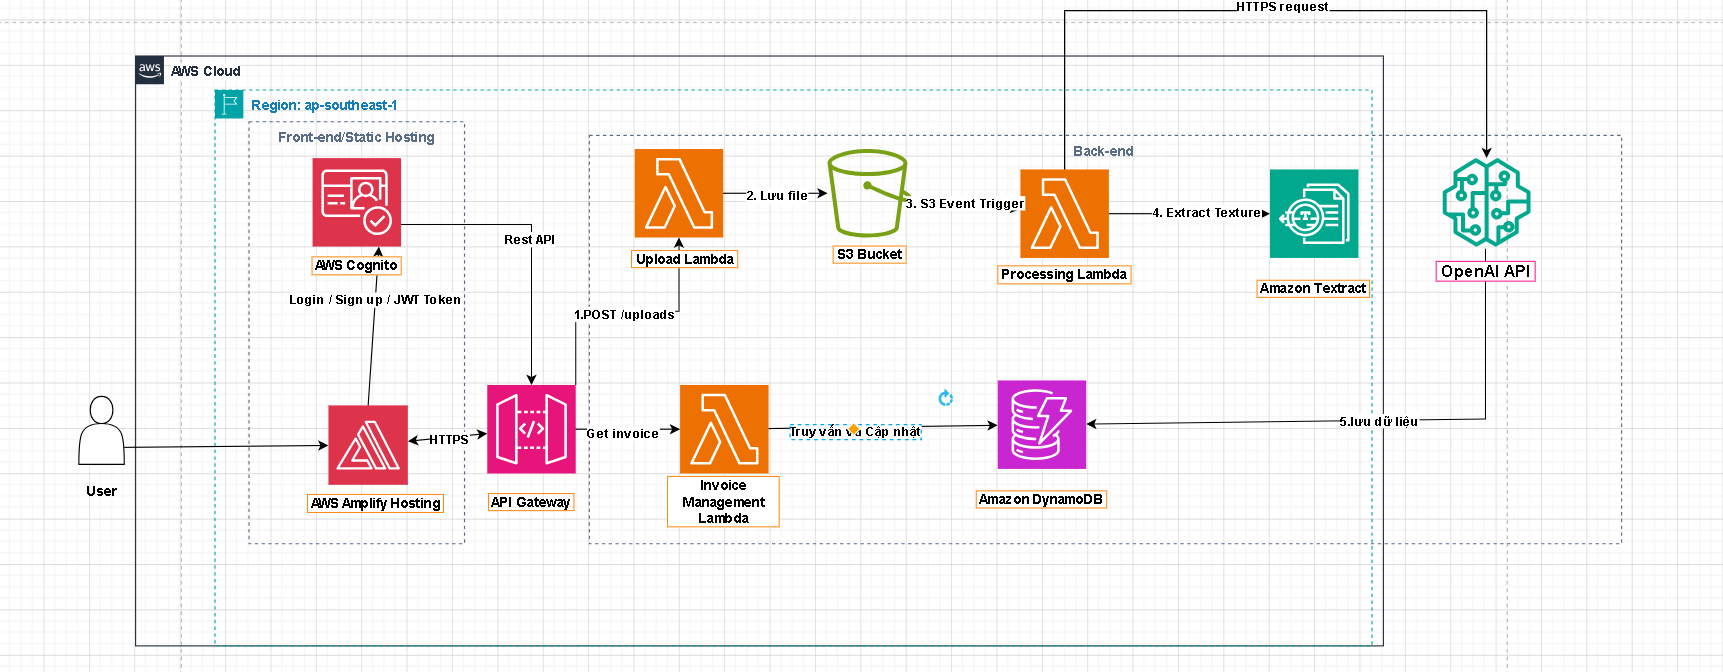
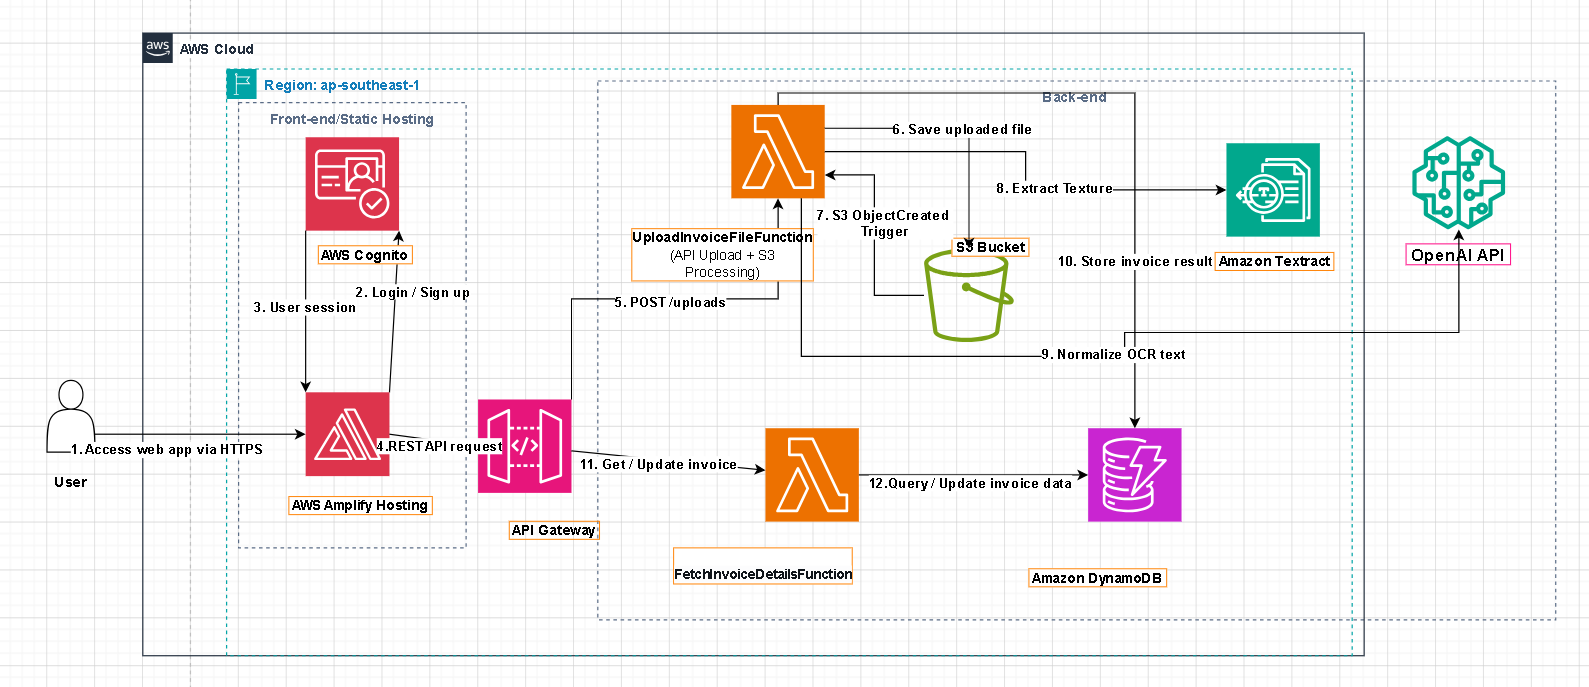
Final update

diff --git a/layouts/partials/menu-footer.html b/layouts/partials/menu-footer.html
@@ -10,17 +10,21 @@
     <br>
     <br>
         <b> Last Updated </b> <br>
-        <i><font color=orange>30-01-2022</font></i>
+        <i><font color=orange>03-07-2026</font></i>
     </left>
     <left>
         <br>
         <br>
             <b> Team </b> <br>
            
-            <i> <a href="https://www.linkedin.com/in/sutrinh/"  style="color:orange">Sử Trịnh  </a> <br>
-                <a href="https://www.linkedin.com/in/jotaguy"  style="color:orange">Gia Hưng </a> <br>
-                <a href="https://www.linkedin.com/in/hiepnguyendt"  style="color:orange">Thanh Hiệp </a>
-               
+            <i>
+                <a href = "https://github.com/nguyenminhtinh31204/Serverless-AI-Invoice-Scanner" style="color:orange">Minh Tình</a> <br>
+                <a style="color:orange">Duy Khang</a> <br>
+                <a style="color:orange">Duy Tân</a> <br>
+                <a style="color:orange">Khánh Thịnh</a> <br>
+                <a style="color:orange">Nguyễn Duy Khang</a> <br>
+                
+
         </i>
         </left>
 <!-- Place this tag in your head or just before your close body tag. -->

diff --git a/content/3-AIpoweredinvoiceprocessing/3.2-createlambdafunction-upload/_index.vi.md b/content/3-AIpoweredinvoiceprocessing/3.2-createlambdafunction-upload/_index.vi.md
@@ -7,7 +7,7 @@ pre: " <b> 3.2 </b> "
 
 #### Tổng quan
 
-Trong bước này, bạn sẽ tạo Lambda Function đầu tiên có tên là **UploadInvoiceFileFunction**. Function này sẽ được kích hoạt khi người dùng tải lên một file hóa đơn vào S3 bucket. Sau đó, nó sẽ sử dụng **Amazon Textract** để trích xuất văn bản, **Amazon Bedrock** để phân tích và hiểu nội dung, cuối cùng lưu thông tin vào **DynamoDB**.
+Trong bước này, bạn sẽ tạo Lambda Function đầu tiên có tên là **UploadInvoiceFileFunction**. Function này sẽ được kích hoạt khi người dùng tải lên một file hóa đơn vào S3 bucket. Sau đó, nó sẽ sử dụng **Amazon Textract** để trích xuất văn bản, **OpenAI API** để phân tích và hiểu nội dung, cuối cùng lưu thông tin vào **DynamoDB**.
 
 ---
 
@@ -18,7 +18,7 @@ Trong bước này, bạn sẽ tạo Lambda Function đầu tiên có tên là *
 ![Open Lambda](/images/3.lambdafunctions/3.2-uploadinvoicelambda/001-openlambda.png)
 
 {{% notice warning %}}
-⚠ **Lưu ý**: Hãy đảm bảo bạn đang ở đúng **Region: N. Virginia (us-east-1)** trước khi tạo Lambda function. Đây là vùng bạn đã tạo S3 bucket, DynamoDB table và đăng ký Amazon Bedrock. Nếu chọn sai vùng, Lambda sẽ không thể truy cập được các dịch vụ khác của hệ thống.
+⚠ **Lưu ý**: Hãy đảm bảo bạn đang ở đúng **Region: Singapore (ap-southeast)** trước khi tạo Lambda function. Đây là vùng bạn đã tạo S3 bucket, DynamoDB table và đăng ký Amazon Bedrock. Nếu chọn sai vùng, Lambda sẽ không thể truy cập được các dịch vụ khác của hệ thống.
 {{% /notice %}}
 
 2. Nhấn **Create function**.

diff --git a/content/3-AIpoweredinvoiceprocessing/3.2-createlambdafunction-upload/_index.md b/content/3-AIpoweredinvoiceprocessing/3.2-createlambdafunction-upload/_index.md
@@ -7,7 +7,7 @@ pre: " <b> 3.2 </b> "
 
 #### Overview
 
-In this step, you will create the first Lambda Function named **UploadInvoiceFileFunction**. This function is triggered when a user uploads an invoice file to the S3 bucket. It then uses **Amazon Textract** to extract text, **Amazon Bedrock** to analyze and understand the content, and finally stores the extracted information into **DynamoDB**.
+In this step, you will create the first Lambda Function named **UploadInvoiceFileFunction**. This function is triggered when a user uploads an invoice file to the S3 bucket. It then uses **Amazon Textract** to extract text, **OpenAI API** to analyze and understand the content, and finally stores the extracted information into **DynamoDB**.
 
 ---
 
@@ -18,7 +18,7 @@ In this step, you will create the first Lambda Function named **UploadInvoiceFil
 ![Open Lambda](/images/3.lambdafunctions/3.2-uploadinvoicelambda/001-openlambda.png)
 
 {{% notice warning %}}
-⚠ **Note**: Make sure you are in the correct **Region: N. Virginia (us-east-1)** before creating the Lambda function. This is the region where you created the S3 bucket, DynamoDB table, and registered Amazon Bedrock. If you choose the wrong region, Lambda won't be able to access the system's other services.
+⚠ **Note**: Make sure you are in the correct **Region: Singapore (ap-southeast-1)** before creating the Lambda function. This is the region where you created the S3 bucket, DynamoDB table. If you choose the wrong region, Lambda won't be able to access the system's other services.
 {{% /notice %}}
 
 2. Click **Create function**.

diff --git a/content/3-AIpoweredinvoiceprocessing/3.3-testlambdafunction-upload/_index.vi.md b/content/3-AIpoweredinvoiceprocessing/3.3-testlambdafunction-upload/_index.vi.md
@@ -7,7 +7,7 @@ pre: " <b> 3.3 </b> "
 
 #### Tổng quan
 
-Trong bước này, bạn sẽ thực hiện kiểm thử Lambda Function **UploadInvoiceFileFunction** bằng cách tải lên một tệp hóa đơn mẫu vào S3 bucket. Việc kiểm thử nhằm xác nhận toàn bộ quá trình xử lý, từ khi người dùng tải file lên S3, trích xuất dữ liệu bằng Textract, phân tích bằng Bedrock, đến khi lưu dữ liệu vào DynamoDB, hoạt động chính xác.
+Trong bước này, bạn sẽ thực hiện kiểm thử Lambda Function **UploadInvoiceFileFunction** bằng cách tải lên một tệp hóa đơn mẫu vào S3 bucket. Việc kiểm thử nhằm xác nhận toàn bộ quá trình xử lý, từ khi người dùng tải file lên S3, trích xuất dữ liệu bằng Textract, phân tích bằng OpenAI, đến khi lưu dữ liệu vào DynamoDB, hoạt động chính xác.
 
 ---
 
@@ -15,7 +15,7 @@ Trong bước này, bạn sẽ thực hiện kiểm thử Lambda Function **Uplo
 
 Trước khi thực hiện kiểm thử Lambda Function, bạn cần chuẩn bị tệp hóa đơn mẫu để tải lên. Vui lòng tải tệp sau về máy của bạn:
 
--   [Tải file mẫu demo_invoice.png](/images/demo_invoice.png)
+-   [Tải file mẫu demo_invoice.png](https://drive.google.com/file/d/1EcicofEM9axww3cfS1TMa0cX37S0otDx/view?usp=drive_link)
 
 {{% notice info %}}
 🔧 **Ghi chú**: Nếu bạn sử dụng tệp hóa đơn khác, hãy đổi tên thành **demo_invoice.png** trước khi tải lên thư mục **uploads/** trong S3.

diff --git a/content/3-AIpoweredinvoiceprocessing/3.3-testlambdafunction-upload/_index.md b/content/3-AIpoweredinvoiceprocessing/3.3-testlambdafunction-upload/_index.md
@@ -7,7 +7,7 @@ pre: " <b> 3.3 </b> "
 
 #### Tổng quan
 
-In this step, you will test the **UploadInvoiceFileFunction** Lambda Function by uploading a sample invoice file to the S3 bucket. The purpose of this test is to verify the entire processing workflow, from file upload to S3, data extraction with Textract, analysis with Bedrock, and storage in DynamoDB.
+In this step, you will test the **UploadInvoiceFileFunction** Lambda Function by uploading a sample invoice file to the S3 bucket. The purpose of this test is to verify the entire processing workflow, from file upload to S3, data extraction with Textract, analysis with OpenAI, and storage in DynamoDB.
 
 ---
 
@@ -15,7 +15,7 @@ In this step, you will test the **UploadInvoiceFileFunction** Lambda Function by
 
 Before testing the Lambda function, prepare a sample invoice file to upload. Please download the following file:
 
--   [Download demo_invoice.png sample file](/images/demo_invoice.png)
+-   -   [demo_invoice.png](https://drive.google.com/file/d/1EcicofEM9axww3cfS1TMa0cX37S0otDx/view?usp=drive_link)
 
 {{% notice info %}}
 🔧 **Note**: If you use a different invoice file, rename it to **demo_invoice.png** before uploading to the **uploads/** folder in S3.  

diff --git a/content/_index.vi.md b/content/_index.vi.md
@@ -49,8 +49,7 @@ AWS Lambda là dịch vụ serverless compute cho phép chạy code backend mà 
 Hệ thống sử dụng một số Lambda functions chính như:
 
 - `UploadInvoiceFileFunction`
-- `ProcessInvoiceFunction`
-- `InvoiceManagementFunction`
+- `FetchInvoiceDetailsFunction`
 
 #### Amazon DynamoDB
 

diff --git a/content/_index.md b/content/_index.md
@@ -43,8 +43,7 @@ AWS Lambda is a serverless compute service that runs backend logic without requi
 The system uses several Lambda functions, such as:
 
 - `UploadInvoiceFileFunction`
-- `ProcessInvoiceFunction`
-- `InvoiceManagementFunction`
+- `FetchInvoiceDetailsFunction`
 
 #### Amazon DynamoDB
 
